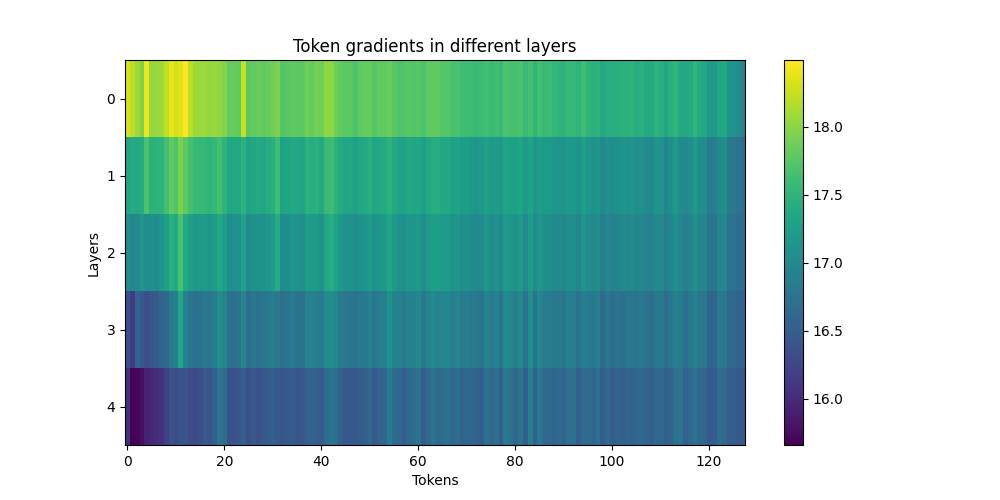
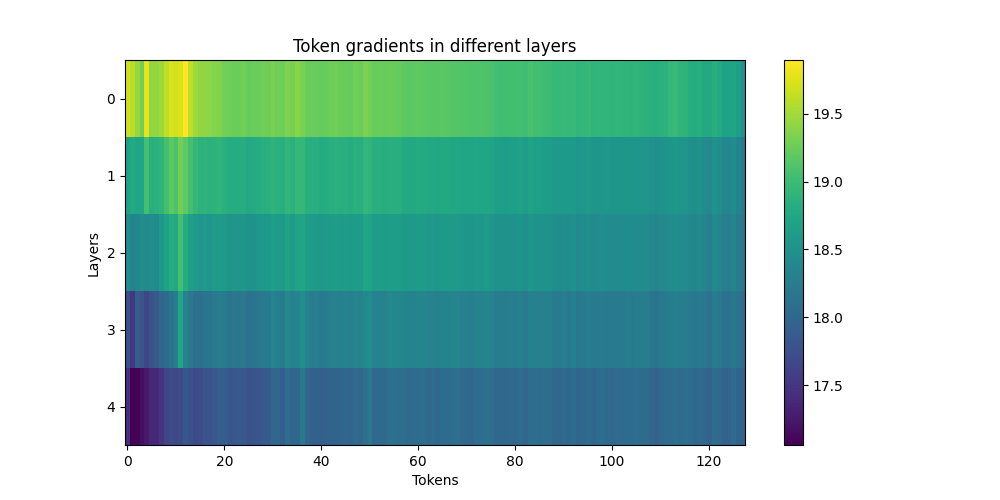
gradient-activation norm

diff --git a/main.py b/main.py
@@ -212,6 +212,37 @@ class gradients_norm:
         
         # Additional norm calculations for nested structures
         # assert np.array(self.actemb["layer 0"]).shape[1] == 128
+        grad_actemb = {
+            "layer 0": [],
+            "layer 1": [],
+            "layer 2": [],
+            "layer 3": [],
+            "layer 4": []
+        }
+        
+        
+        grad_actemb["layer 0"] = np.linalg.norm(self.grads["layer 0"], axis=0)
+        grad_actemb["layer 1"] = np.linalg.norm(self.grads["layer 1"], axis=0)
+        grad_actemb["layer 2"] = np.linalg.norm(self.grads["layer 2"], axis=0)
+        grad_actemb["layer 3"] = np.linalg.norm(self.grads["layer 3"], axis=0)
+        grad_actemb["layer 4"] = np.linalg.norm(self.grads["layer 4"], axis=0)
+        # self.actemb["last layer"] = np.linalg.norm(self.actemb["last layer"], axis=0)
+        
+        gradlist = np.array([
+            np.log(np.array(grad_actemb["layer 0"])),
+            np.log(np.array(grad_actemb["layer 1"])),
+            np.log(np.array(grad_actemb["layer 2"])),
+            np.log(np.array(grad_actemb["layer 3"])),
+            np.log(np.array(grad_actemb["layer 4"])),
+            # mean_acts["last layer"]
+            ])
+        
+        plotting(data=gradlist, name = "figures/grads_layer_seq_norm.png")
+    
+    def normwmean(self):
+        
+        # Additional norm calculations for nested structures
+        # assert np.array(self.actemb["layer 0"]).shape[1] == 128
         normwmean_grad = {
             "layer 0": [],
             "layer 1": [],
@@ -228,11 +259,11 @@ class gradients_norm:
             "layer 4": []
         }
         
-        normwmean_grad["layer 0"] = np.array(self.actemb["layer 0"]) - np.mean(np.array(self.actemb["layer 0"]), axis = 0)
-        normwmean_grad["layer 1"] = np.array(self.actemb["layer 1"]) - np.mean(np.array(self.actemb["layer 1"]), axis = 0)
-        normwmean_grad["layer 2"] = np.array(self.actemb["layer 2"]) - np.mean(np.array(self.actemb["layer 2"]), axis = 0)
-        normwmean_grad["layer 3"] = np.array(self.actemb["layer 3"]) - np.mean(np.array(self.actemb["layer 3"]), axis = 0)
-        normwmean_grad["layer 4"] = np.array(self.actemb["layer 4"]) - np.mean(np.array(self.actemb["layer 4"]), axis = 0)
+        normwmean_grad["layer 0"] = np.array(self.grads["layer 0"]) - np.mean(np.array(self.grads["layer 0"]), axis = 0)
+        normwmean_grad["layer 1"] = np.array(self.grads["layer 1"]) - np.mean(np.array(self.grads["layer 1"]), axis = 0)
+        normwmean_grad["layer 2"] = np.array(self.grads["layer 2"]) - np.mean(np.array(self.grads["layer 2"]), axis = 0)
+        normwmean_grad["layer 3"] = np.array(self.grads["layer 3"]) - np.mean(np.array(self.grads["layer 3"]), axis = 0)
+        normwmean_grad["layer 4"] = np.array(self.grads["layer 4"]) - np.mean(np.array(self.grads["layer 4"]), axis = 0)
         
         normwmean_grad_mod["layer 0"] = np.linalg.norm(normwmean_grad["layer 0"], axis=0)
         normwmean_grad_mod["layer 1"] = np.linalg.norm(normwmean_grad["layer 1"], axis=0)
@@ -250,20 +281,6 @@ class gradients_norm:
             np.log(np.array(normwmean_grad_mod["layer 4"])),
             # mean_acts["last layer"]
             ])
-        
-        plotting(data=gradlistmean, name = "figures/grads_layer_seq_norm.png")
-    
-    def normwmean(self):
-        
-        assert self.grads["layer 0"].shape == (128,)
-        epsilon = 1e-5
-        gradlistmean = np.array([
-            np.log(np.array(self.grads["layer 0"]) - np.mean(np.array(self.grads["layer 0"]), axis = 0) + epsilon),
-            np.log(np.array(self.grads["layer 1"]) - np.mean(np.array(self.grads["layer 1"]), axis = 0) + epsilon),
-            np.log(np.array(self.grads["layer 2"]) - np.mean(np.array(self.grads["layer 2"]), axis = 0) + epsilon),
-            np.log(np.array(self.grads["layer 3"]) - np.mean(np.array(self.grads["layer 3"]), axis = 0) + epsilon),
-            np.log(np.array(self.grads["layer 4"]) - np.mean(np.array(self.grads["layer 4"]), axis = 0) + epsilon),
-        ])  
         
         plotting(data=gradlistmean, name = "figures/grad_layer_seq_normwmean.png")
 
